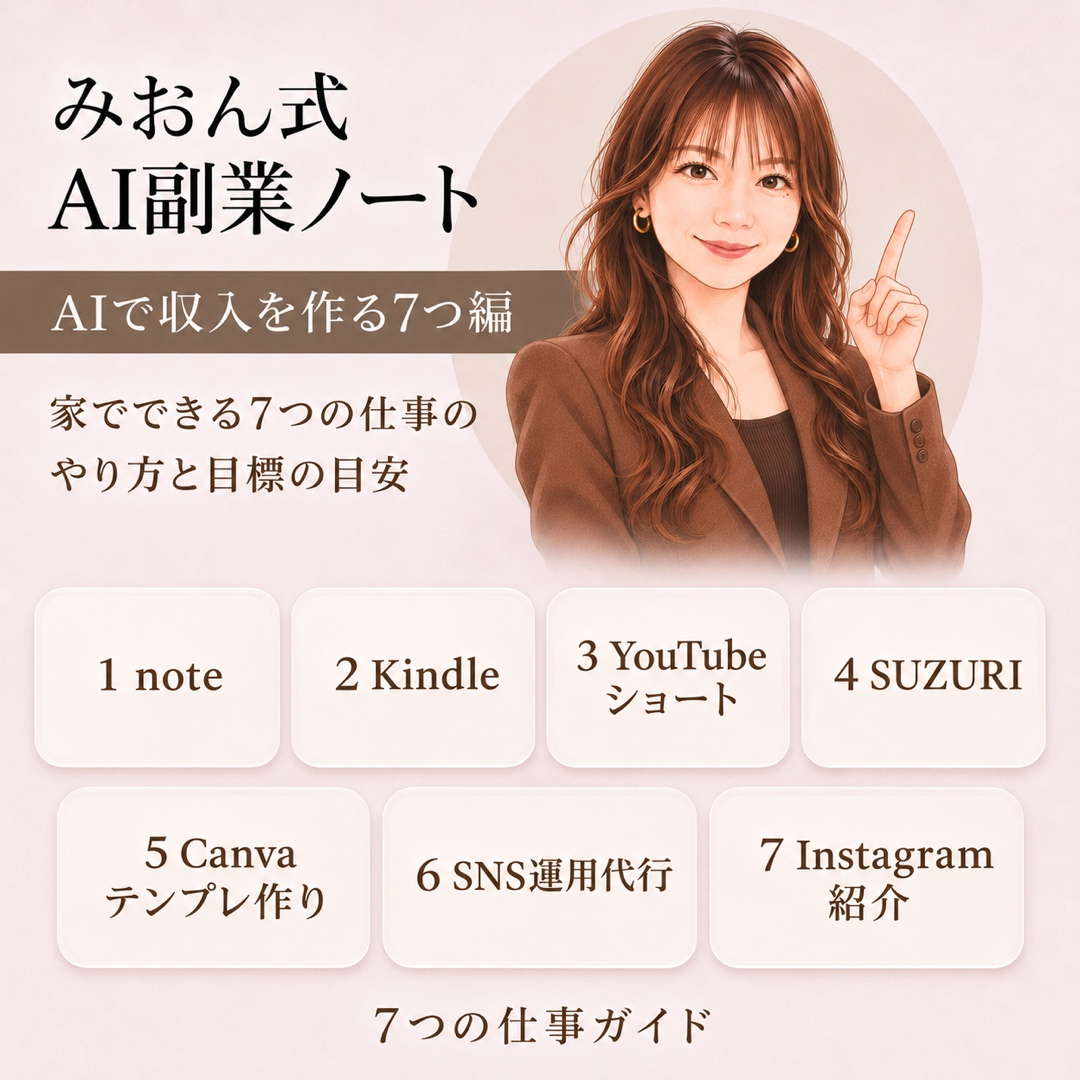
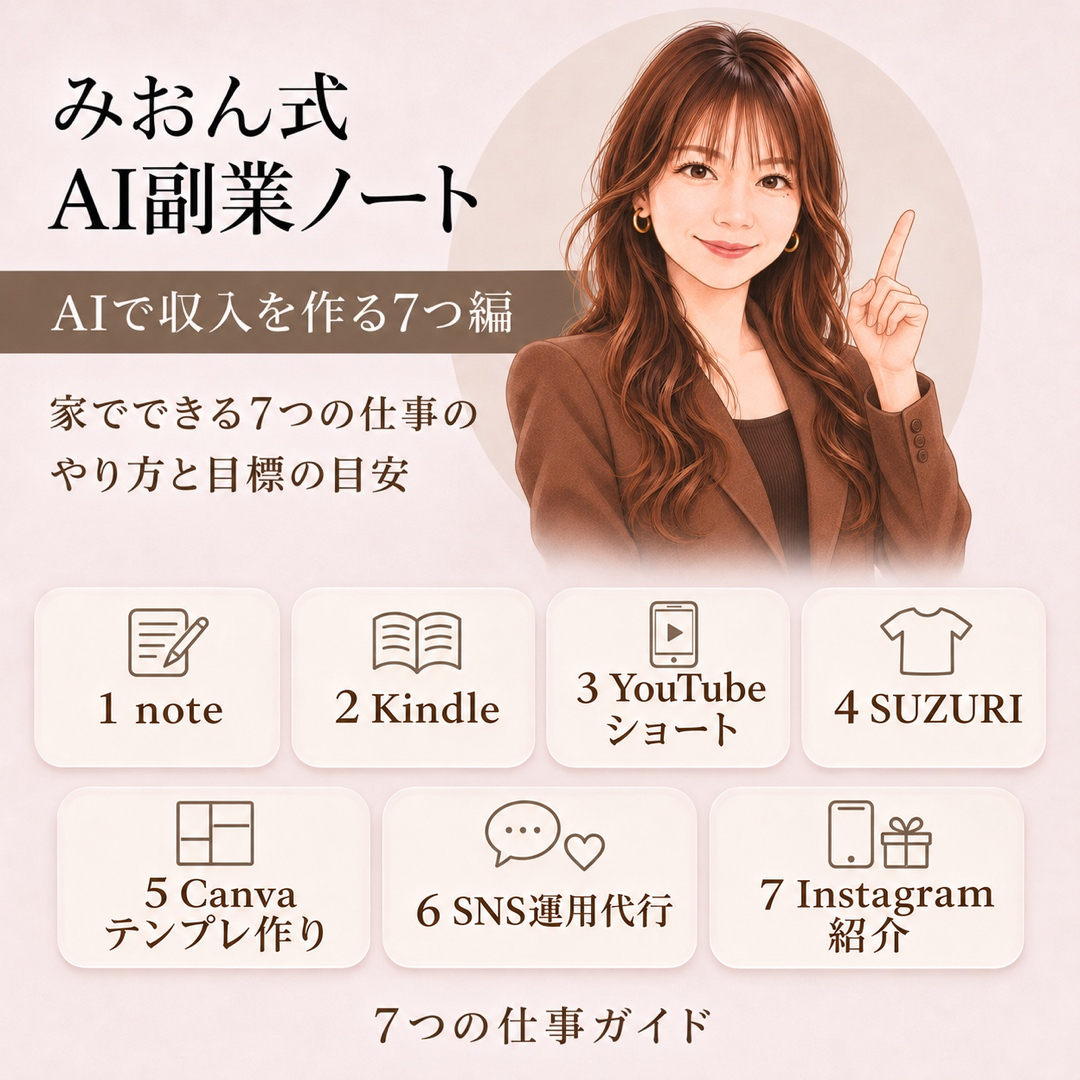
🕒 2026-11-26 09:38:01
feat: STEPを展開式に・noteをAIでテーマから本文まで・バナーにアイコン追加

diff --git a/js/content.js b/js/content.js
@@ -54,32 +54,47 @@ const CONTENT = {
     intro: "7つ全部を、やる必要はありません。まずは1つ選んで、小さく始めるための資料です。どの仕事も、収入になるまでの時間や金額は人によって大きく違います。収入は約束できません。目標金額は「単価 × 数」で考えて、いまの自分に近い例を探すために使ってください。",
   },
 
-  // SECTION 04：本編
+  // SECTION 04：本編（stepsFold: true で、タイトルだけの展開式になる）
+  stepsFold: true,
   steps: [
     {
       number: "01",
       title: "note（文章を書いて販売する）",
-      lead: "自分の経験や、調べたことを記事にして、有料で販売できます。無料で書くだけでも始められます。",
+      lead: "テーマ選びから、記事の構成、本文の下書きまで、AIに手伝ってもらって記事を作れます。作った記事は、noteで無料または有料で公開できます。",
       paragraphs: [
-        "AIは、記事の構成づくりや、読みやすい文章への整え直しを手伝ってくれます。書く内容そのものは、自分の経験や考えがいちばんの価値になります。",
+        "AIは、質問をしてテーマを引き出し、見出しを考え、本文の下書きまで書いてくれます。ただ、AIは事実をまちがえることがあります。公開する前に、数字や事実は、自分で確かめてください。",
       ],
       list: [
         "必要なもの：noteのアカウント（無料）。販売するときは、売上の受け取り設定",
         "収入になるしくみ：有料記事・マガジンの販売、メンバーシップなど",
         "手数料（公式ヘルプ）：クレジットカード決済の事務手数料5%、そこからプラットフォーム利用料10%、振込手数料270円（1回の振込につき）",
         "公式の計算例：1,000円の有料記事がクレジットカードで買われると、事務手数料50円、プラットフォーム利用料95円。振込手数料を引くと、手元に届くのは585円",
+        "AIを使った記事の扱いについては、noteの公式ヘルプで最新のルールを確認してから公開してください",
       ],
       figures: [],
       flow: [
-        { text: "書くテーマを1つ決める。「自分が少し前に困って、調べて解決したこと」が書きやすい" },
-        { text: "AIに、記事の見出しの案を出してもらう（下のプロンプト）" },
-        { text: "見出しごとに自分の言葉で書く。事実や数字は、自分で確かめる" },
-        { text: "まずは無料記事を1本公開して、反応を見る。慣れてから、有料にする" },
+        { text: "テーマを決める。AIに質問してもらいながら、書けるテーマの案を出してもらう（プロンプト①）" },
+        { text: "選んだテーマで、記事の構成（見出し）を作ってもらう（プロンプト②）" },
+        { text: "見出しごとに、本文の下書きを書いてもらう（プロンプト③）" },
+        { text: "タイトル案と導入文を作ってもらい、事実の確認が必要な箇所を洗い出してもらう（プロンプト④）" },
+        { text: "洗い出された箇所を自分で確かめて、読んでみて直す。まずは無料記事で1本公開して、慣れてから有料にする" },
       ],
       prompts: [
         {
-          label: "① 記事の見出しを考えてもらうプロンプト",
-          text: "noteで記事を書きたいので、見出しの案を一緒に考えてください。\n\n【私の経験・得意なこと】\n（ここに自分の経験を入力）\n\n【読んでほしい人】\n（ここに、読んでほしい人を入力）\n\n【お願い】\n・読んでほしい人が、記事を読み終えたときに「できそう」と思える見出しを5つ出してください\n・やさしい言葉で書いてください\n・私の経験にないことは、作らないでください",
+          label: "① テーマを決めてもらうプロンプト",
+          text: "noteで記事を書きたいので、書けるテーマを一緒に探してください。\n\n【私について（分かる範囲で）】\n（ここに、仕事・趣味・興味・暮らしのことを入力）\n\n【お願い】\n・まず、私に質問を3つしてください。私が答えてから、次に進みます\n・私の答えをもとに、noteで書けるテーマの案を5つ出してください\n・それぞれに、読んでほしい人と、読んだ人が得られることを、一言で書いてください\n・私の答えにない経験や実績は、作らないでください",
+        },
+        {
+          label: "② 記事の構成を作ってもらうプロンプト",
+          text: "次のテーマで、noteの記事の構成を作ってください。\n\n【テーマ】\n（ここに、選んだテーマを入力）\n\n【読んでほしい人】\n（ここに、読んでほしい人を入力）\n\n【お願い】\n・見出しを5つ作り、それぞれに書く内容を一言で添えてください\n・読み終えた人が「やってみよう」と思える流れにしてください\n・やさしい言葉で書いてください",
+        },
+        {
+          label: "③ 本文の下書きを書いてもらうプロンプト",
+          text: "次の構成で、noteの記事の本文の下書きを書いてください。\n\n【構成】\n（ここに、②で作った構成を貼り付け）\n\n【私の経験・考え（あれば）】\n（ここに、入れたい経験や考えを入力）\n\n【お願い】\n・見出しごとに、300〜400文字で書いてください\n・やさしい話し言葉で書いてください\n・私が書いていない経験・数字・固有名詞は、作らないでください\n・事実か分からないことは、「要確認」と書いてください\n・自分の経験を入れたほうがよい場所は、「（ここに自分の経験）」と書いてください",
+        },
+        {
+          label: "④ タイトルと仕上げを手伝ってもらうプロンプト",
+          text: "次のnoteの記事について、仕上げを手伝ってください。\n\n【記事の本文】\n（ここに、③の下書きを貼り付け）\n\n【お願い】\n・タイトルの案を5つ出してください（言い切りすぎない、やさしい言葉で）\n・記事の冒頭の導入文を、3パターン書いてください\n・事実の確認が必要な箇所を、一覧にしてください\n・「必ず」「絶対」など、言い切りすぎている表現があれば、教えてください",
         },
       ],
       point: {

diff --git a/js/script.js b/js/script.js
@@ -116,9 +116,38 @@
     return `<div class="flow"><p class="flow__text"><span class="flow__no" aria-hidden="true">${k + 1}</span><span>${f.text}</span></p>${f.figure ? figure(f.figure) : ""}${(f.figures || []).map(figure).join("")}${prompts}</div>`;
   }
 
-  function step(s, i) {
-    const id = "step" + (i + 1);
+  function stepBody(s, id) {
     const body = (s.paragraphs || []).map((p) => `<p>${p}</p>`).join("");
+    return `
+          ${body}
+          ${list(s.list, "check-list")}
+          ${(s.flow || []).map((f, k) => flowItem(f, id, k)).join("")}
+          ${(s.figures || []).map(figure).join("")}
+          ${(s.prompts || []).map((p, k) => prompt(p, id + "-prompt" + k)).join("")}
+          ${s.point ? point(s.point) : ""}`;
+  }
+
+  // 展開式（CONTENT.stepsFold = true）: タイトルだけを見せ、タップで中身を開く
+  function foldStep(s, i) {
+    const id = "step" + (i + 1);
+    return `
+    <details class="step step--fold" id="${id}">
+      <summary class="step__summary">
+        <span class="step__no" aria-hidden="true"><span>STEP</span>${s.number}</span>
+        <span class="step__title step__title--fold"><span class="visually-hidden">STEP ${s.number}　</span>${s.title}</span>
+        <span class="step__chevron" aria-hidden="true"></span>
+      </summary>
+      <div class="container step__foldbody">
+        <p class="step__lead step__lead--in">${s.lead}</p>
+        <div class="step__body">${stepBody(s, id)}
+        </div>
+      </div>
+    </details>`;
+  }
+
+  function step(s, i) {
+    if (CONTENT.stepsFold) return foldStep(s, i);
+    const id = "step" + (i + 1);
     return `
     <section class="step" id="${id}" aria-labelledby="${id}-title">
       <div class="container">
@@ -129,13 +158,7 @@
             <p class="step__lead">${s.lead}</p>
           </div>
         </header>
-        <div class="step__body">
-          ${body}
-          ${list(s.list, "check-list")}
-          ${(s.flow || []).map((f, k) => flowItem(f, id, k)).join("")}
-          ${(s.figures || []).map(figure).join("")}
-          ${(s.prompts || []).map((p, k) => prompt(p, id + "-prompt" + k)).join("")}
-          ${s.point ? point(s.point) : ""}
+        <div class="step__body">${stepBody(s, id)}
         </div>
       </div>
     </section>`;
@@ -209,6 +232,7 @@
         const dest = document.querySelector(link.getAttribute("href"));
         if (dest) {
           e.preventDefault();
+          if (dest.tagName === "DETAILS") dest.open = true;
           dest.scrollIntoView({ behavior: matchMedia("(prefers-reduced-motion: reduce)").matches ? "auto" : "smooth" });
         }
       }

diff --git a/css/style.css b/css/style.css
@@ -198,6 +198,24 @@ a:focus-visible, button:focus-visible {
 .figure img { border-radius: var(--radius-s); width: 100%; }
 .figure figcaption { margin-top: 10px; font-size: 14px; color: var(--c-muted); }
 
+/* STEPの展開式（タイトルだけ見せて、タップで開く） */
+.step--fold { padding: 0; border-top: 1px solid var(--c-line); }
+.step--fold:last-of-type { padding-bottom: 0; border-bottom: 1px solid var(--c-line); }
+.step__summary {
+  display: flex; align-items: center; gap: 14px; max-width: 760px; margin: 0 auto;
+  padding: 20px var(--gutter); cursor: pointer; list-style: none;
+}
+.step__summary::-webkit-details-marker { display: none; }
+.step__summary:focus-visible { outline: 2px solid var(--c-taupe); outline-offset: -2px; }
+.step__title--fold { flex: 1; margin: 0; font-size: 19px; }
+.step__chevron {
+  flex: none; width: 10px; height: 10px; margin-right: 4px;
+  border-right: 2px solid var(--c-taupe); border-bottom: 2px solid var(--c-taupe); transform: rotate(45deg); transition: transform .2s;
+}
+.step--fold[open] .step__chevron { transform: rotate(-135deg); }
+.step__foldbody { padding-bottom: var(--space-section); }
+.step__lead--in { padding-left: 0; margin-bottom: 20px; }
+
 /* ---------- コピペ用プロンプト ---------- */
 .prompt { padding: 20px; border: 1px solid var(--c-line); border-radius: var(--radius-m); background: #fff; }
 .prompt__label { margin-bottom: 10px; font-size: 14px; font-weight: 700; color: var(--c-ink); }

diff --git a/docs/requirements.md b/docs/requirements.md
@@ -22,7 +22,7 @@
 
 ファーストビュー（1:1バナー）→ 冒頭CTA → わかること → STEP01 note → 02 Kindle → 03 YouTubeショート → 04 SUZURI → 05 Canvaテンプレ作り → 06 SNS運用代行 → 07 Instagramで商品を紹介して報酬をもらう → まとめ → ストーリー型のLINE誘導（標準構成）
 
-各STEP: 何か → 必要なもの・収入のしくみ（箇条書き）→ 始め方（flow）→ AIに手伝ってもらうプロンプト → 目標の目安（仮定の例 or 公式の例）
+各STEP（展開式。タイトルだけを見せ、タップで開く）: 何か → 必要なもの・収入のしくみ・売り先/案件/紹介先の見つけ方（箇条書き）→ 始め方（flow）→ AIに手伝ってもらうプロンプト → 目標の目安（仮定の例 or 公式の例）
 
 ## 3. 金額の方針（運用者の決定 2026-11-25）
 
@@ -53,5 +53,5 @@
 ## 6. 納品物
 
 - 特典ページ（`index.html` + `js/content.js`）
-- 1:1バナー（Codex生成・人物は本人イラスト）`assets/images/banner-1x1.jpg`／配布用画像
+- 1:1バナー（Codex生成・人物は本人イラスト。7枚のカードにアイコン付き・他社ロゴなし）`assets/images/banner-1x1.jpg`／配布用画像
 - コメントキーワード: 「気になる番号（1〜7）」（DM設定側で使う）

diff --git a/CLAUDE.md b/CLAUDE.md
@@ -45,3 +45,5 @@
 - 解説動画の枠は置かない（運用者の指示 2026-11-26）
 - 人物は本人のイラスト（`インスタ関連` フォルダのイラストを基にCodexで生成）。生成人物を本人写真として使わない
 - 読者向け文章に「確認していません」と書かない。未確認事項は `docs/requirements.md` §5 に記録
+- STEP01〜07は展開式（`content.js` の `stepsFold: true`。タイトルだけを見せ、タップで開く。`script.js` の `foldStep` と `css/style.css` の「STEPの展開式」。この特典で追加した共通部品。テンプレートv2には入っていない）
+- STEP01のnoteは、テーマ選び→構成→本文の下書き→タイトル・仕上げまでを、AIのプロンプト4つで作る。AIは事実をまちがえることがあるので、公開前に自分で確認する旨を書く
